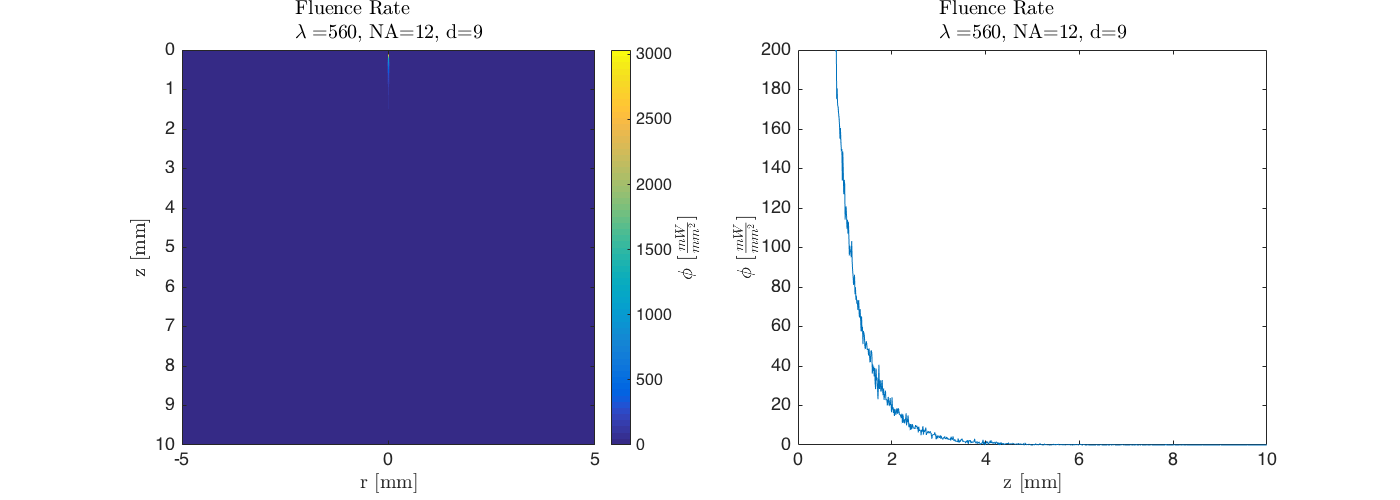
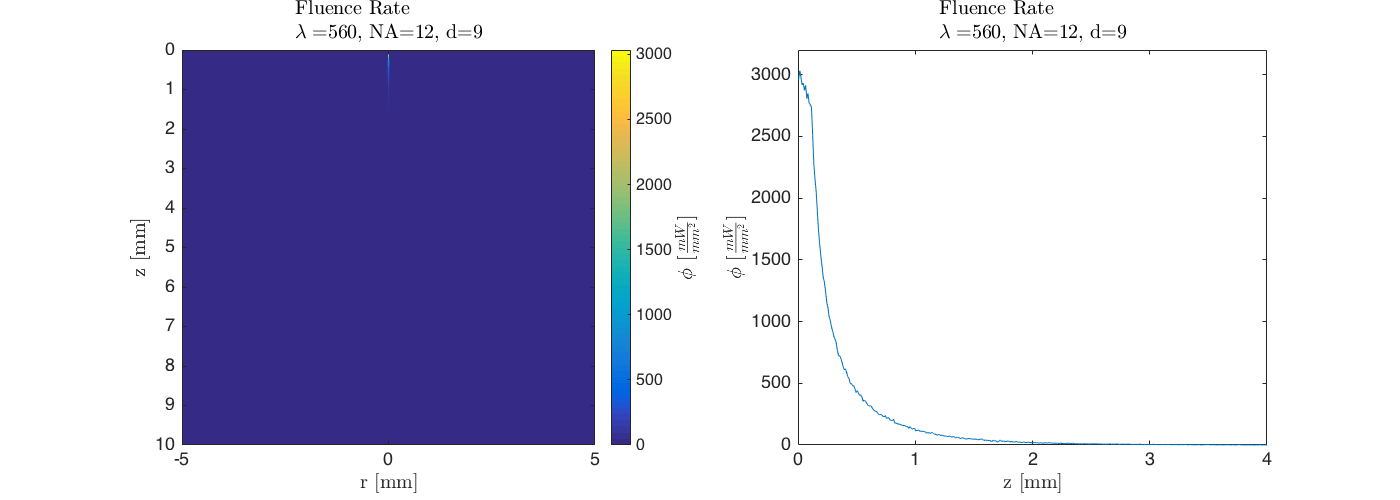
Mooie figuren met juiste scholing

diff --git a/Data/Licht_verdeling/MCML/MCML_FR_Code/MCML_Plot.m b/Data/Licht_verdeling/MCML/MCML_FR_Code/MCML_Plot.m
@@ -38,9 +38,9 @@ k=1;
                 ylabel('$\phi$ [$\frac{mW}{mm^2}$]', 'interpreter', 'LaTex'); 
                 
                if j==1 
-                   xlim([0,10]);ylim([0,200]);
+                   xlim([0,4]);ylim([0,3200]);
                elseif j==2 
-                   xlim([0,8]);ylim([0,10]);   
+                   xlim([0,4]);ylim([0,80]);   
                end
                
          k=k+1;
